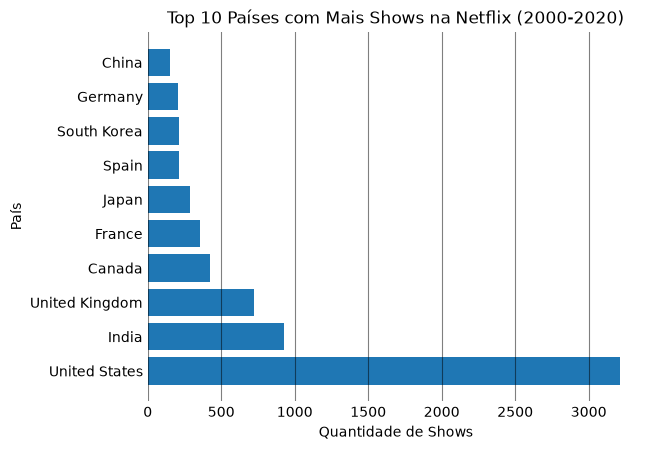
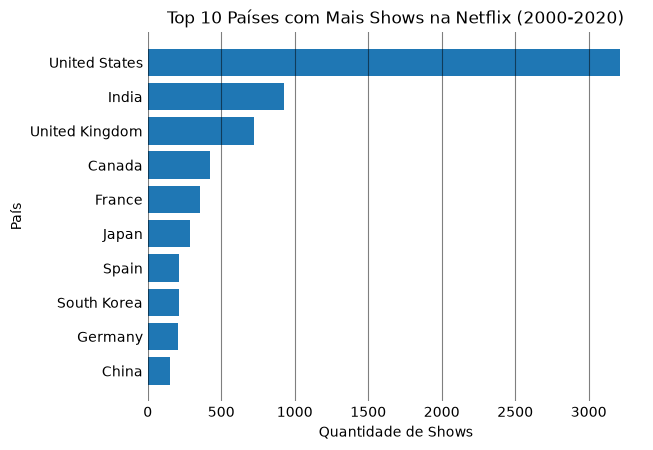
Adiciona pergunta 3 (diretores) e corrige bug de copia de dataframe

diff --git a/notebook/analise.py b/notebook/analise.py
@@ -25,11 +25,12 @@ netflix = netflix.rename(columns = nomes_portugues)
 
 #Quantidade de Shows por País em um determinado ano de lançamento
 
-netflix['pais'] = netflix['pais'].str.split(',')
-netflix = netflix.explode('pais')
-netflix['pais'] = netflix['pais'].str.strip()
+df_netflix = netflix.copy()
+df_netflix['pais'] = df_netflix['pais'].str.split(',')
+df_netflix = df_netflix.explode('pais')
+df_netflix['pais'] = df_netflix['pais'].str.strip()
 
-netflix_ano = netflix[(netflix['ano_de_lancamento'] >= 2000) & (netflix['ano_de_lancamento'] <= 2020)]
+netflix_ano = df_netflix[(df_netflix['ano_de_lancamento'] >= 2000) & (df_netflix['ano_de_lancamento'] <= 2020)]
 df_ano_pais = netflix_ano.groupby(['ano_de_lancamento', 'pais']).size().reset_index( name = 'quantidade')
 
 df_paises = df_ano_pais.groupby('pais')['quantidade'].sum().reset_index(name='quantidade')
@@ -46,12 +47,14 @@ ax = plt.gca()
 ax.spines[['right','left','top','bottom']].set_visible(False)
 ax.grid(axis='x', color='black', alpha=0.5)
 ax.tick_params(axis='both', length=0)
+ax.invert_yaxis()  # Inverte a ordem do eixo y para que o maior valor fique no topo
+
 
 # %%
 
 #Quais os filmes mais recentes e mais antigos adcicionados na Netflix de cada país
 
-df_data_adicao = netflix
+df_data_adicao = df_netflix.copy()
 
 df_data_adicao['data_de_adicao'] = df_data_adicao['data_de_adicao'].str.strip()
 df_data_adicao = df_data_adicao[df_data_adicao['data_de_adicao'] != 'Desconhecido']
@@ -81,3 +84,28 @@ plt.ylabel('País')
 plt.legend()
 
 # %%
+
+# Quais os Diretores com maiores quantidades de filmes
+
+df_diretores = netflix.copy()
+
+df_diretores['diretor'] = df_diretores['diretor'].str.split(',')
+df_diretores = df_diretores.explode('diretor')
+df_diretores['diretor'] = df_diretores['diretor'].str.strip()
+
+df_diretores = df_diretores[df_diretores['diretor'] != 'Desconhecido']
+df_diretores = df_diretores[df_diretores['tipo'] == 'Movie']
+
+df_diretores = df_diretores.groupby('diretor').size().reset_index(name='quantidade')
+df_diretores_top10 = df_diretores.sort_values(by='quantidade', ascending=False).head(10)
+
+plt.barh(df_diretores_top10['diretor'], df_diretores_top10['quantidade'])
+plt.title('Top 10 Diretores com Mais Filmes na Netflix')
+plt.xlabel('Quantidade de Filmes')
+plt.ylabel('Diretor')
+
+ax = plt.gca()
+ax.spines[['right','left','top','bottom']].set_visible(False)
+ax.grid(axis='x', color='black', alpha=0.5)
+ax.tick_params(axis='both', length=0)
+ax.invert_yaxis()  # Inverte a ordem do eixo y para que o maior valor fique no topo

diff --git a/README.md b/README.md
@@ -47,6 +47,14 @@ Contém informações sobre filmes e séries do catálogo da Netflix, como títu
 
 ---
 
+### 3. Diretores com mais filmes 
+
+![Gráfico de diretores com mais filmes](images/top10-diretores.png)
+
+>Conclusão: Rajiv Chilaka lidera o ranking de diretores com mais filmes na Netflix, com 22 títulos. Um número bem próximo dos segundos colocados, Jan Suter (21) e Raúl Campos (19), diferente do que aconteceu na análise por país, onde havia uma disparidade grande entre o primeiro e os demais. Essa análise considerou apenas filmes (não séries) e desconsiderou títulos sem diretor listado no dataset original.
+
+---
+
 ## 📁 Estrutura do projeto
 ```
 ├── data/ # dataset original (CSV)
